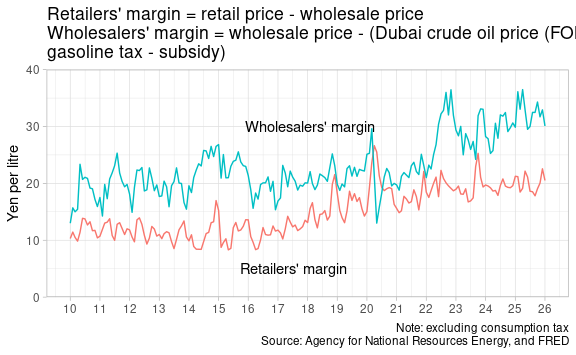
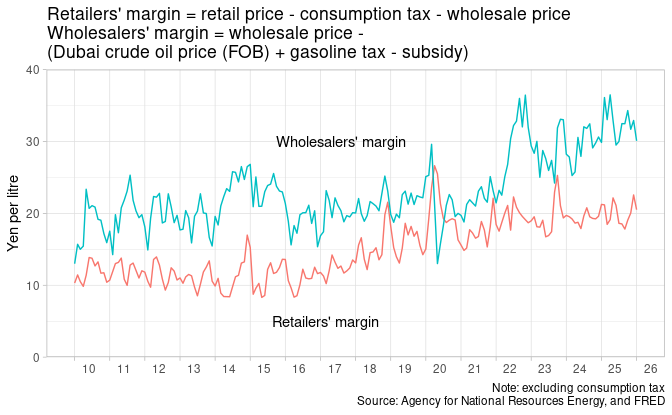
Combine two weekly plots (retail price plot and margin plot) into one plot

diff --git a/README.md b/README.md
@@ -6,7 +6,9 @@ Mitsuo Shiota
   - [Gasoline retail price (weekly)](#gasoline-retail-price-weekly)
   - [Dubai crude oil price (weekly)](#dubai-crude-oil-price-weekly)
   - [Subsidy](#subsidy)
+  - [Consumption tax](#consumption-tax)
   - [Margin](#margin)
+  - [Plot](#plot)
 - [Monthly update](#monthly-update)
   - [Retail prices (monthly)](#retail-prices-monthly)
   - [Wholesale prices](#wholesale-prices)
@@ -23,7 +25,7 @@ library(tidyquant)
 theme_set(theme_light())
 ```
 
-Updated: 2026-03-15
+Updated: 2026-03-16
 
 ## Weekly update
 
@@ -46,22 +48,6 @@ retail <- read_excel("data/260311s5.xlsx",
     ) |> 
   filter(!is.na(date))
 ```
-
-``` r
-retail |> 
-  filter(date >= as.Date("2020-01-01")) |> 
-  ggplot(aes(date, retail_price)) +
-  geom_line() +
-  scale_x_date(date_breaks = "12 week", date_labels = "%y %b %d") +
-  labs(x = NULL, y = "Yen per litre",
-       title = "Gasoline retail price (weekly)",
-       caption = "Note: including consumption tax\nSource: Agency for National Resources Energy") +
-  theme(axis.text.x = element_text(angle = 90, vjust = 0.5),
-        panel.grid.minor.x = element_blank())
-```
-
-![Gasoline retail price
-(weekly)](README_files/figure-commonmark/retail_price_plot-1.png)
 
 ### Dubai crude oil price (weekly)
 
@@ -537,9 +523,7 @@ meti_subsidy <- tribble(
   fill(subsidy, .direction = "down")
 ```
 
-### Margin
-
-I exclude consumption tax from retail price.
+### Consumption tax
 
 ``` r
 retail <- retail |> 
@@ -549,10 +533,12 @@ retail <- retail |>
       date < as.Date("2014-04-01") ~ .05,
       date < as.Date("2019-10-01") ~ .08,
       .default = .1),
-    retail_price = retail_price  / (1 + consumption_tax_rate)
+    consumption_tax = retail_price * (1 - 1 / (1 + consumption_tax_rate))
   ) |> 
-  select(date, retail_price)
+  select(date, retail_price, consumption_tax)
 ```
+
+### Margin
 
 I convert date to week, and combine retail, meti_dubai_weekly and
 meti_subsidy. I fill missing data in retail_price.
@@ -560,7 +546,7 @@ meti_subsidy. I fill missing data in retail_price.
 ``` r
 retail_weekly <- retail |> 
   mutate(week = yearweek(date)) |> 
-  select(week, retail_price)
+  select(week, retail_price, consumption_tax)
 
 meti_dubai_weekly <- meti_dubai_weekly |> 
   mutate(week = yearweek(start_date)) |> 
@@ -573,8 +559,8 @@ meti_subsidy_weekly <- meti_subsidy |>
 combo_weekly <- meti_dubai_weekly |> 
   left_join(retail_weekly, by = "week") |> 
   left_join(meti_subsidy_weekly, by = "week") |> 
-  fill(retail_price, .direction = "down") |> 
-  select(week, retail_price, dubai, subsidy)
+  fill(retail_price, consumption_tax, .direction = "down") |> 
+  select(week, retail_price, consumption_tax, dubai, subsidy)
 ```
 
 As retail price on Monday reflects previous Tuesday-Monday average Dubai
@@ -587,28 +573,35 @@ combo_weekly <- combo_weekly |>
     across(dubai:subsidy, \(x) lag(x, n = 2)),
     gas_tax = if_else(week < yearweek("2026 W02"), 53.8, 28.7),
     subsidy = if_else(is.na(subsidy), 0, subsidy),
-    margin =retail_price - (dubai + gas_tax - subsidy)
-  )
+    margin = retail_price - consumption_tax - (dubai + gas_tax - subsidy)
+  ) |> 
+  filter(!is.na(margin)) |> 
+  mutate(week = as.Date(week))
 ```
 
-Plot.
+### Plot
 
 ``` r
 combo_weekly |> 
-  filter(!is.na(margin)) |> 
-  mutate(week = as.Date(week)) |> 
-  ggplot(aes(week, margin)) +
-  geom_line() +
+  mutate(subsidy = - subsidy) |> 
+  pivot_longer(consumption_tax:margin) |> 
+  mutate(name = factor(name,
+                       levels = c("consumption_tax", "dubai", "margin", "gas_tax", "subsidy"),
+                       labels = c("Consumption tax", "Dubai crude oil\nprice (FOB)", "Margin", "Gasoline tax", "Subsidy"))) |> 
+  ggplot(aes(week, value)) +
+  geom_area(aes(fill = name)) +
+  geom_line(aes(y = retail_price), data = combo_weekly) +
   scale_x_date(date_breaks = "12 week", date_labels = "%y %b %d") +
-  labs(x = NULL, y = "Yen per litre",
-       title = "Margin (weekly) = retail price - (Dubai crude oil price (FOB) +\ngasoline tax - subsidy)",
-       caption = "Note: excluding consumption tax\nSource: Agency for National Resources Energy, and Investing.com") +
+  scale_fill_brewer(palette = "Set2") +
+  labs(x = NULL, y = "Yen per litre", fill = NULL,
+       title = "Line: Retail price (weekly)\nArea: Decomposition",
+       caption = "Source: Agency for National Resources Energy, and Investing.com") +
   theme(axis.text.x = element_text(angle = 90, vjust = 0.5),
         panel.grid.minor.x = element_blank())
 ```
 
-![Margin
-(weekly)](README_files/figure-commonmark/margin_plot_weekly-1.png)
+![Retail price
+(weekly)](README_files/figure-commonmark/plot_weekly-1.png)
 
 ## Monthly update
 
@@ -616,7 +609,10 @@ combo_weekly |>
 
 ``` r
 retail_monthly <- retail |> 
-  mutate(month = yearmonth(date)) |> 
+  mutate(
+    month = yearmonth(date),
+    retail_price = retail_price - consumption_tax
+  ) |> 
   summarize(retail_price = mean(retail_price), .by = month) |> 
   filter(month >= yearmonth("2003-01"))
 ```
@@ -699,8 +695,10 @@ combo_monthly |>
   scale_x_yearmonth(date_breaks = "1 year", date_labels = "%y") +
   scale_y_continuous(limits = c(0, 40), expand = expansion(add = c(0, 0))) +
   labs(x = NULL, y = "Yen per litre",
-       title = "Retailers' margin = retail price - wholesale price\nWholesalers' margin = wholesale price - (Dubai crude oil price (FOB) +\ngasoline tax - subsidy)",
-       caption = "Note: excluding consumption tax\nSource: Agency for National Resources Energy, and FRED")
+       title = "Retailers' margin = retail price - consumption tax - wholesale price\nWholesalers' margin = wholesale price -\n(Dubai crude oil price (FOB) + gasoline tax - subsidy)",
+       caption = "Note: excluding consumption tax\nSource: Agency for National Resources Energy, and FRED") +
+  theme(axis.text.x = element_text(hjust = -0.5),
+        panel.grid.minor.x = element_blank())
 ```
 
 ![Margin
